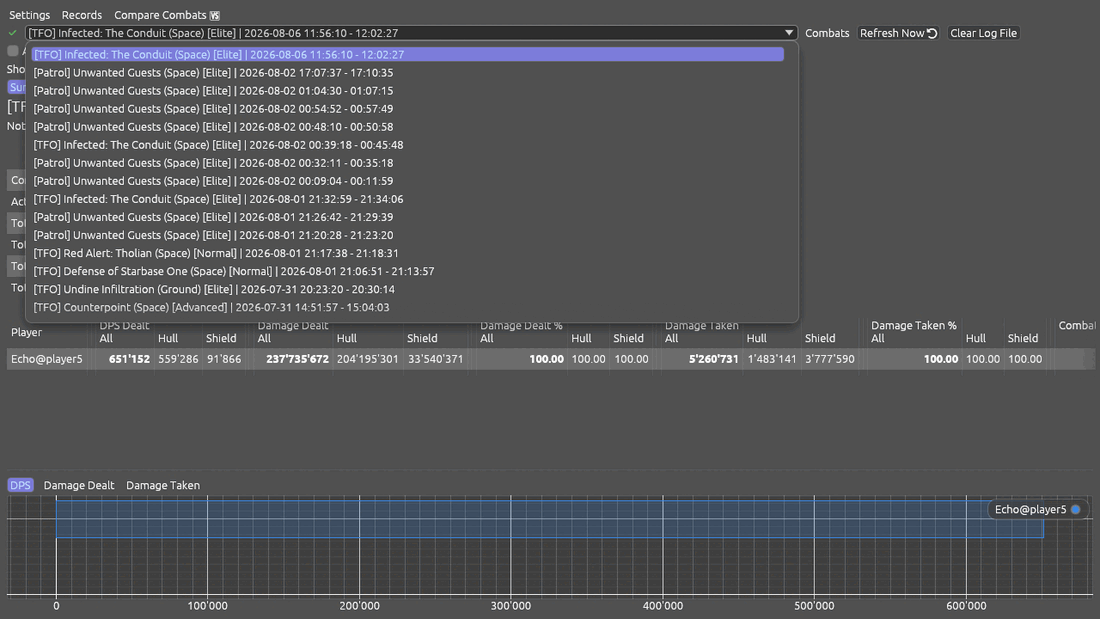
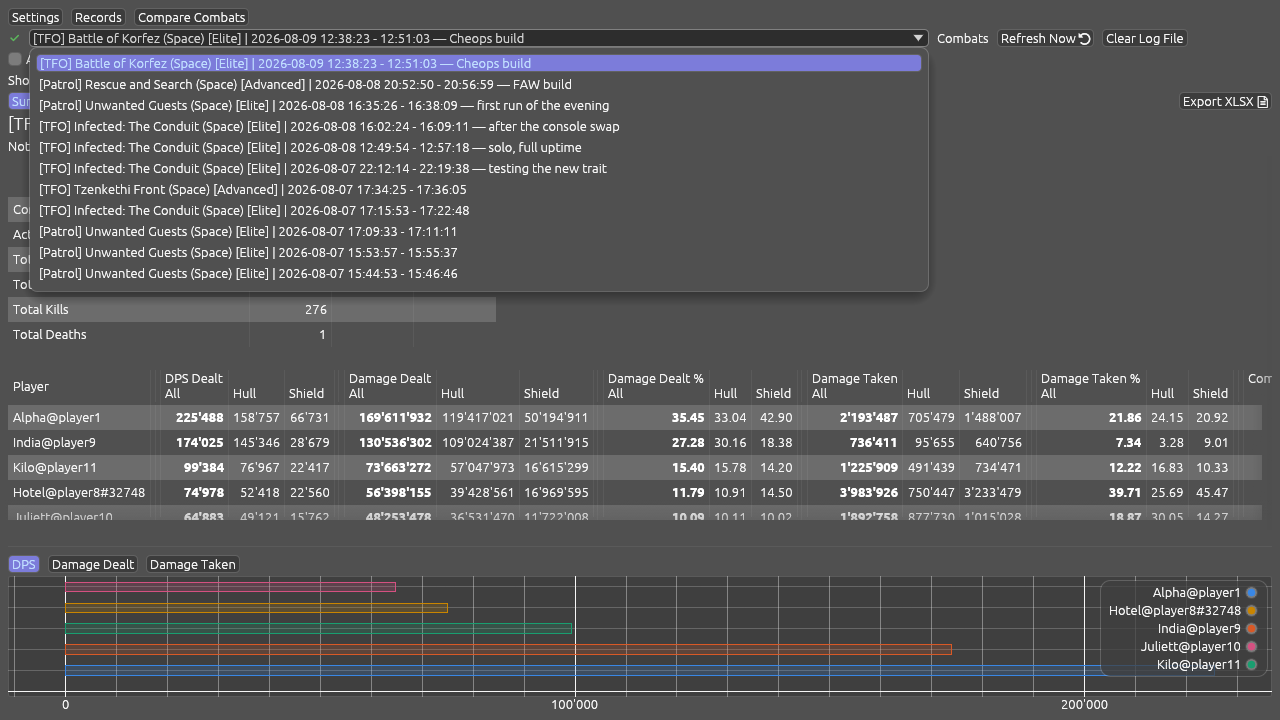
Bring the manual and its pictures up to date
The pictures were taken before the tab row gained a Columns menu and an Export
button, before the compare picker gained the Played window and Select all, and
before the buttons became toggles. Retaken against the anonymised demo log, plus
one new picture of the Columns menu.

Two leaks in the screenshot pipeline, both of which had already put the wrong
thing in a picture:

- `settings.py` seeds the demo config from the live settings, so the compare
  view opened in whatever mode this machine happened to be left in — the last
  picture of a comparison arrived already averaged, contradicting the text
  beside it. The compare block is now pinned to the documented defaults.
- `screenshots.sh` clicked where the compare list used to be and photographed
  the picker twice, once labelled as the result. Coordinates fixed and commented.

The manual gains what the last few changes left undocumented: what Copy Combat
Summary actually puts on the clipboard and what the ⛭ beside it decides, that
line colours start over past eight runs and that a wide comparison says it will
take a moment, and that Enable Log now applies on OK.

Held back: the two pictures of a built comparison. Both show the list of runs
taking half the window for two runs, which is the opposite of what
`legend_ratio` is written to do — the splitter latches the ratio from the first
frame, where `available_height` is not yet settled, so it clamps to
[…]

diff --git a/demo/settings.py b/demo/settings.py
@@ -113,6 +113,15 @@ def main() -> int:
     settings["combat_notes"] = {"notes": demo_notes(pathlib.Path(log), float(separation))}
     settings.setdefault("general", {})["overlay_shown"] = False
     settings["window"] = {"size": [1280.0, 720.0], "maximized": False}
+    # Compare opens in the state the manual describes, not in whatever mode the
+    # settings were copied from. Averages and the breakdown are shown in
+    # pictures of their own, by pressing their buttons — a picture that arrives
+    # already averaged contradicts the text next to it.
+    settings["compare"] = {
+        "columns": ["Dps", "Resistance", "Critical", "Accuracy"],
+        "show_dps_breakdown": False,
+        "show_averages": False,
+    }
 
     target = root / APP_DIR
     shutil.rmtree(root, ignore_errors=True)

diff --git a/MANUAL.md b/MANUAL.md
@@ -110,6 +110,25 @@ and you can tell at a glance which column is which build.
 | Upload                        | Sends the combat to the OSCR ladder — see [Uploading](#uploading-to-the-oscr-ladder).                                          |
 | Overlay                       | Opens the small always-on-top window — see [The overlay](#the-overlay).                                                        |
 
+### What lands on your clipboard
+
+**Copy Combat Summary** builds a single line, ready to paste into the game chat:
+
+```
+CLA - [TFO] Infected: The Conduit (Space) [Elite] — Cheops build (12:32.200):
+[PlayerName: DPS|Dmg] / @you: 225k|169M / @teammate: 174k|130M
+```
+
+(It is one line, wrapped here to fit the page.) The name of the run comes first,
+then the note you wrote for it, then how long the fight lasted. The part in
+square brackets is the key: it says which numbers follow each name, in that
+order.
+
+The ⛭ beside the button decides what goes in. Untick your note if you would
+rather not share it, and untick metrics you do not need — the game cuts a long
+chat line off, so the fewer you send, the more likely the whole thing arrives.
+Players are listed in the order of the first metric you left ticked, best first.
+
 ---
 
 ## Reading one combat
@@ -119,6 +138,8 @@ and you can tell at a glance which column is which build.
 The tables carry more columns than most people want at once. **Columns** at the
 end of the tab row hides the ones you do not use; the button says how many are
 hidden, so a missing metric is never a mystery. **Show all** brings them back.
+
+![The Columns menu](images/columns-menu.png)
 
 The two damage tabs share one choice and the three healing tabs share another —
 they are the same table with the same metrics — and the choice is remembered
@@ -215,6 +236,12 @@ There is no limit on how many you tick. Two runs read most clearly side by side,
 but a whole evening's worth is a fair thing to ask for — see
 [Averages](#one-average-instead-of-many-columns) for reading a big pile of runs
 at once.
+
+Two things to know before you tick a dozen: past eight runs the chart's line
+colours start over, so two lines can share a colour — the number in the column
+heading is what tells them apart. And a very wide comparison takes a moment to
+build; the picker says so before you press the button, rather than appearing to
+hang.
 
 ### Narrowing the list
 
@@ -471,6 +498,11 @@ change it.
 
 Writes a diagnostic log next to your settings. Leave it off unless you are
 chasing a problem or someone has asked you for the file.
+
+**Enable Log** starts writing the moment you press OK, and the level you pick
+applies just as immediately — you do not have to start the program again, which
+matters when the thing you want a log of is happening right now. Turning it off
+closes the file straight away.
 
 ---
 

diff --git a/CHANGELOG.md b/CHANGELOG.md
@@ -27,6 +27,8 @@
 - **Settings → Visuals** has a **Colour-blind friendly chart colours** switch. Charts then draw their lines and bars in a set of colours chosen to stay apart for red-green colour blindness, which the ordinary set only manages between neighbouring series — on a chart with six or eight things drawn at once, two of them could look the same. Each theme keeps its own version, so the colours still suit a dark or a light background. Nothing else changes colour: the +/- differences in Compare and the status marks already say which is which in words and signs
 
 ### Fixes
+- turning on **Enable Log** under Settings → Debug starts writing the log the moment you press OK, and the level you pick applies just as immediately. It used to wait for the program to be started again — by which time whatever you wanted a log of had been and gone. Turning it off closes the file straight away too
+- opening and closing the overlay's column list no longer makes the overlay jump. With the overlay near the bottom of the screen, where the list has to open upwards, closing it flashed the whole overlay — list and all — a step down the screen, and opening it could flash the list below the overlay for a moment first. It now opens and closes in one clean step, with the figures and the two icons staying exactly where they were, however fast you click it
 - the overlay keeps following the fight while you have Compare Combats open. It used to stop dead the moment you opened a comparison and only pick up again after you closed it, so the figures on screen were whatever they had been minutes earlier
 
 ## v2.1.1
